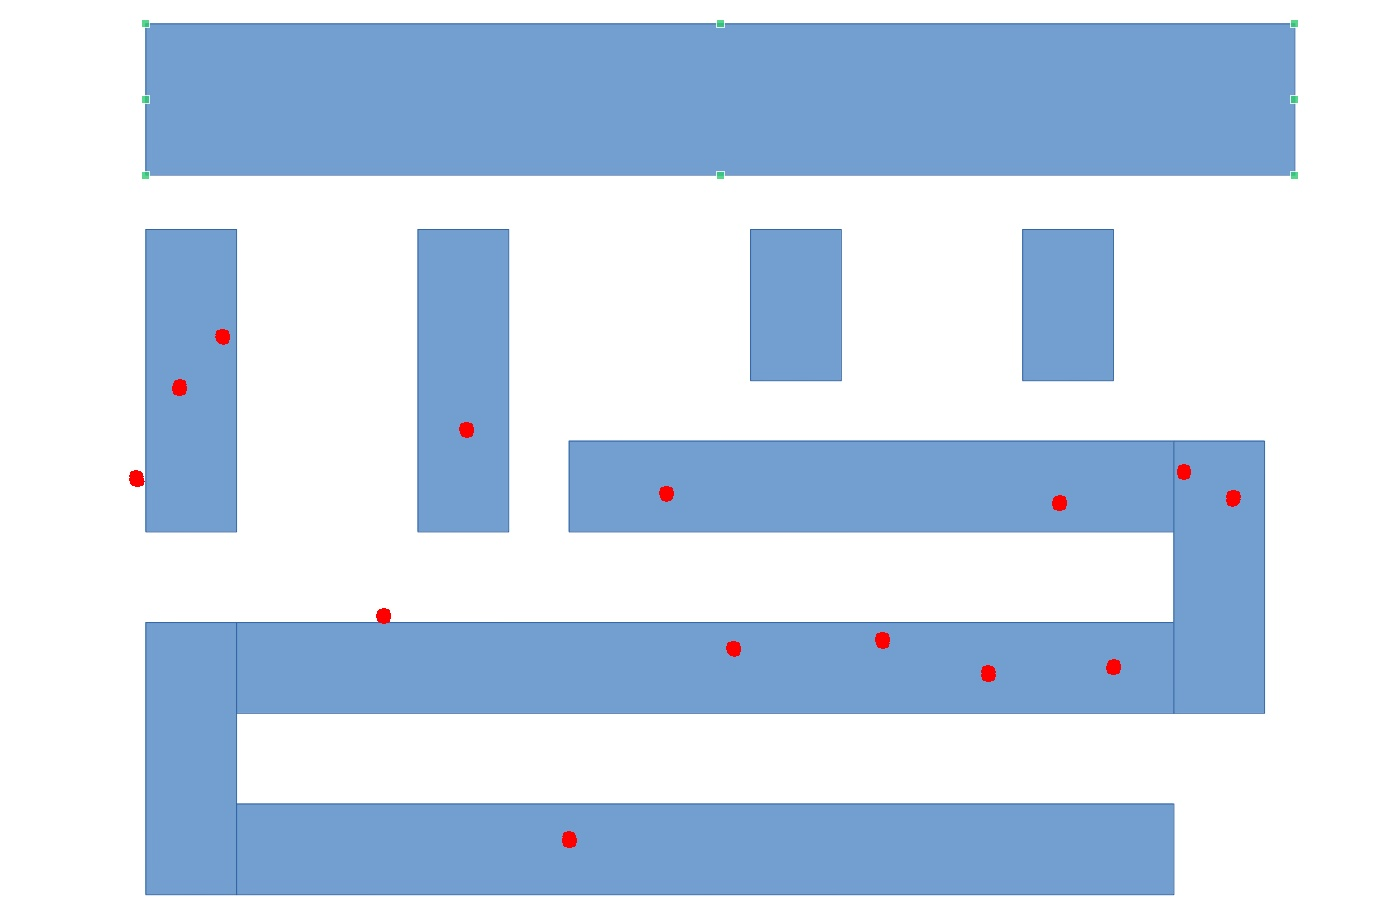
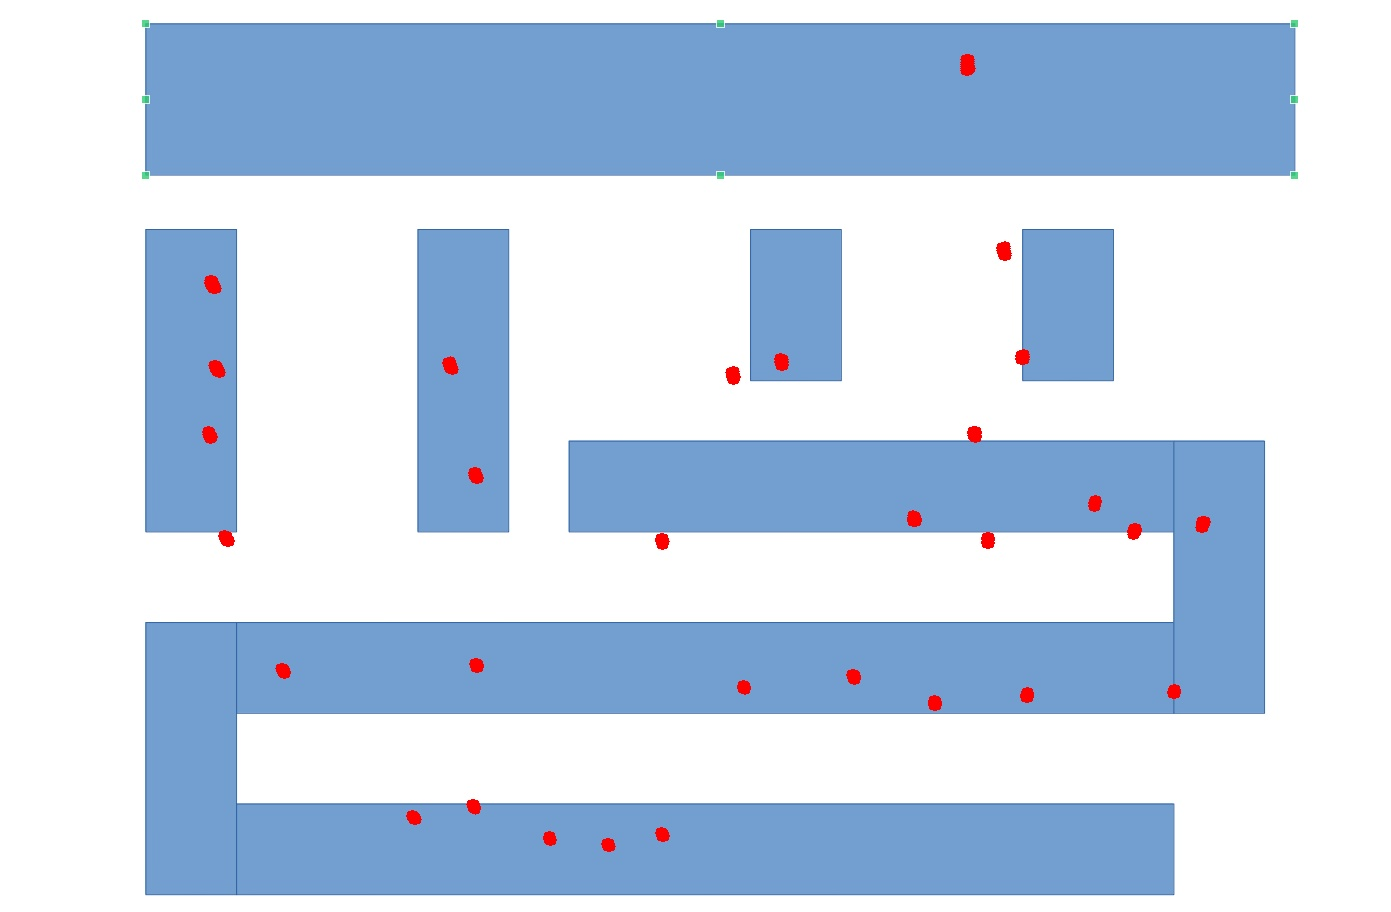
add yolo conf

diff --git a/trans2.py b/trans2.py
@@ -16,17 +16,17 @@ people_A = np.column_stack(np.where(mask > 0))
 people_A = [(x, y) for y, x in people_A]
 
 src_pts = np.array([
-    [150, 200],  # A 이미지의 기준점1 (좌상단 → 오른쪽으로 이동)
-    [1150, 200], # A 이미지의 기준점2 (우상단)
-    [150, 850],  # A 이미지의 기준점3 (좌하단 → 아래쪽으로 더 이동)
-    [1150, 850]  # A 이미지의 기준점4 (우하단)
+    [150, 170],  # A 이미지의 기준점1 (좌상단 → 오른쪽으로 이동)
+    [1120, 190], # A 이미지의 기준점2 (우상단)
+    [150, 820],  # A 이미지의 기준점3 (좌하단 → 아래쪽으로 더 이동)
+    [1150, 820]  # A 이미지의 기준점4 (우하단)
 ], dtype=np.float32)
 
 dst_pts = np.array([
-    [200, 200],   # B 이미지의 기준점1 (좌상단 → 오른쪽으로 이동)
-    [1000, 200],  # B 이미지의 기준점2 (우상단 → 더 오른쪽)
-    [220, 920],   # B 이미지의 기준점3 (좌하단 → 더 아래로 이동)
-    [1020, 920]   # B 이미지의 기준점4 (우하단 → 더 아래로 이동)
+    [70, 110],    # B 이미지의 기준점1 (윗변 좌측 → 더 바깥쪽)
+    [900, 110],  # B 이미지의 기준점2 (윗변 우측 → 더 바깥쪽)
+    [450, 870],   # B 이미지의 기준점3 (아랫변 좌측)
+    [960, 860]    # B 이미지의 기준점4 (아랫변 우측)
 ], dtype=np.float32)
 
 # Homography 행렬 계산

diff --git a/people_detect.py b/people_detect.py
@@ -3,10 +3,10 @@ import cv2
 import numpy as np
 
 model = YOLO("yolov8x.pt")
-image_path = "test1.jpg"
+image_path = "test2.jpg"
 image = cv2.imread(image_path)
 
-results = model(image)
+results = model(image, conf=0.09)
 
 people_centers = []
 for result in results:
@@ -22,6 +22,6 @@ for result in results:
             cv2.rectangle(image, (x1, y1), (x2, y2), (255, 0, 0), 2)
 
 print("Detected people coordinates:", people_centers)
-output_image_path = image_path.replace('.jpg', '_')+'yolo8x_result.jpg'
+output_image_path = image_path.replace('.jpg', '_')+'yolov8x_result.jpg'
 cv2.imwrite(output_image_path, image)
 print(f"Detection result saved as: {output_image_path}")
